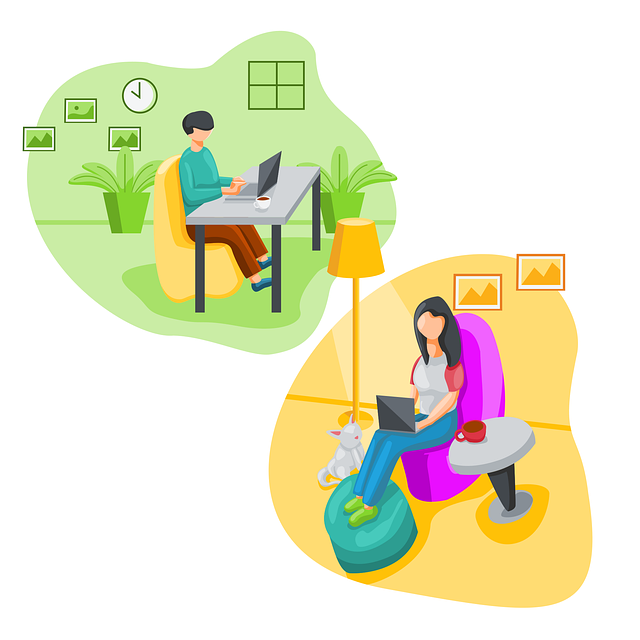
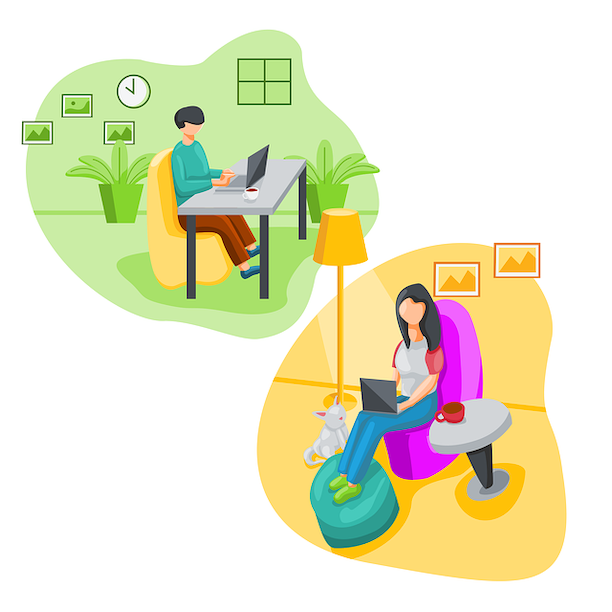
change home animation

diff --git a/components/Hero.js b/components/Hero.js
@@ -5,6 +5,7 @@ import {motion} from "framer-motion";
 import getScrollAnimation from "../utils/getScrollAnimation";
 import ScrollAnimationWrapper from "./Layout/ScrollAnimationWrapper";
 import { useRouter } from "next/router";
+import LokaHome from "./misc/LokaAnimation";
 
 const Hero = ({
   listUser = [
@@ -59,16 +60,7 @@ const Hero = ({
               <ButtonPrimary onClick={handleButtonClick} disabled={isLoading}>{isLoading ? "Loading..." : "Mulai dari sini"}</ButtonPrimary>
             </div>
             <div className="flex w-full">
-              <motion.div className="h-full w-full" variants={scrollAnimation}>
-                <Image
-                  src="/assets/Illustration1.png"
-                  alt="Loka Academy"
-                  quality={100}
-                  width={612}
-                  height={383}
-                  layout="responsive"
-                />
-              </motion.div>
+              <LokaHome/>
             </div>
           </motion.div>
       </ScrollAnimationWrapper>

diff --git a/components/Bootcamp.js b/components/Bootcamp.js
@@ -68,7 +68,7 @@ const Bootcamp = ({
         <p className="mt-5">Merupakan Program Training IT yang difokuskan pada pengembangan produk aplikasi digital</p>
       </div>
       <div>
-       <ul className="text-black-500 self-start list-inside ml-8 mt-5 mb-4">
+       <ul className="text-black-500 self-start list-inside ml-8 mt-5 mb-4 orange">
         <li className="relative circle-check custom-list">Intensif Class</li>
         <li className="relative circle-check custom-list">Project Based</li>
         <li className="relative circle-check custom-list">Fokus Praktik</li>

diff --git a/components/misc/LokaAnimation.js b/components/misc/LokaAnimation.js
@@ -1,0 +1,18 @@
+import React from "react";
+import Lottie from "react-lottie";
+import animationData from "../../src/data/LokaAnimation.json";
+
+function LokaHome() {
+    const defaultOptions = {
+      loop: true,
+      autoplay: true,
+      animationData: animationData,
+      rendererSettings: {
+        preserveAspectRatio: "xMidYMid slice",
+      },
+    };
+  
+    return <Lottie options={defaultOptions} height={500} width={700} />;
+  }
+  
+  export default LokaHome;
